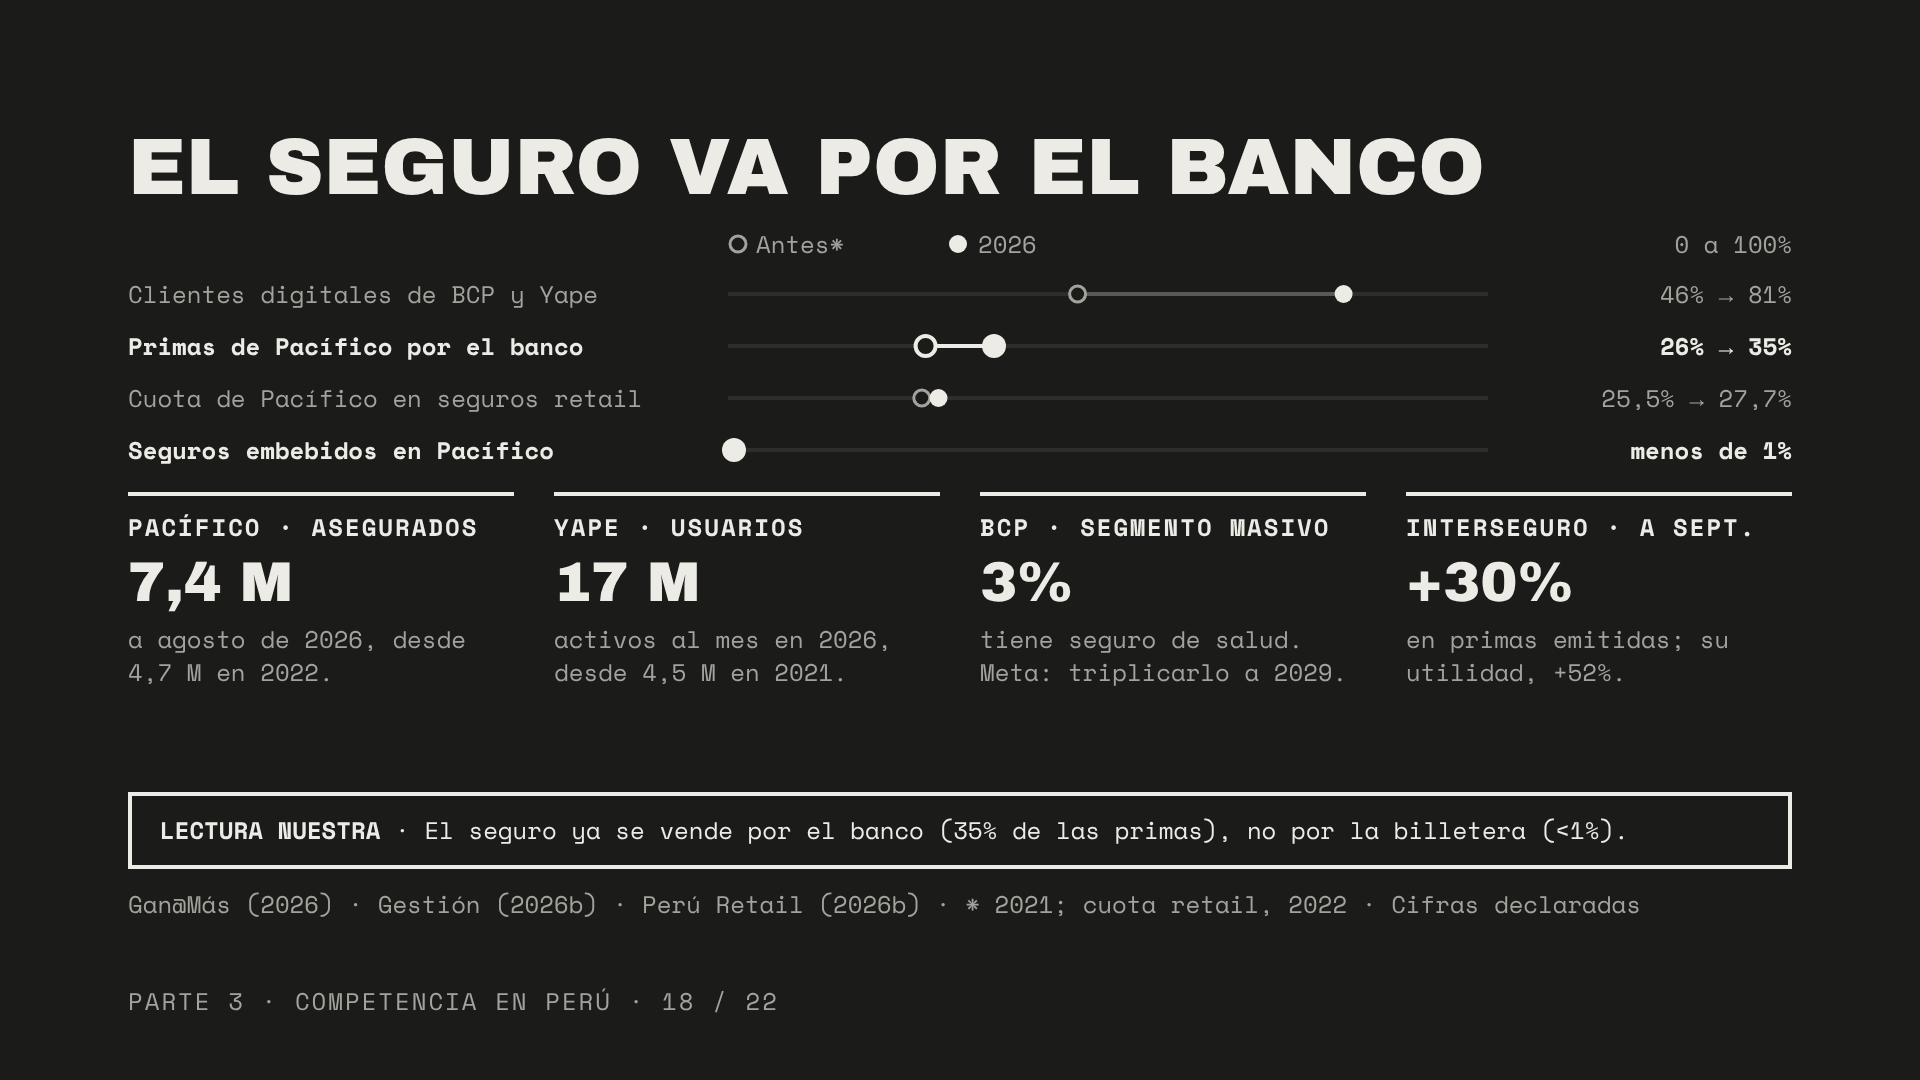
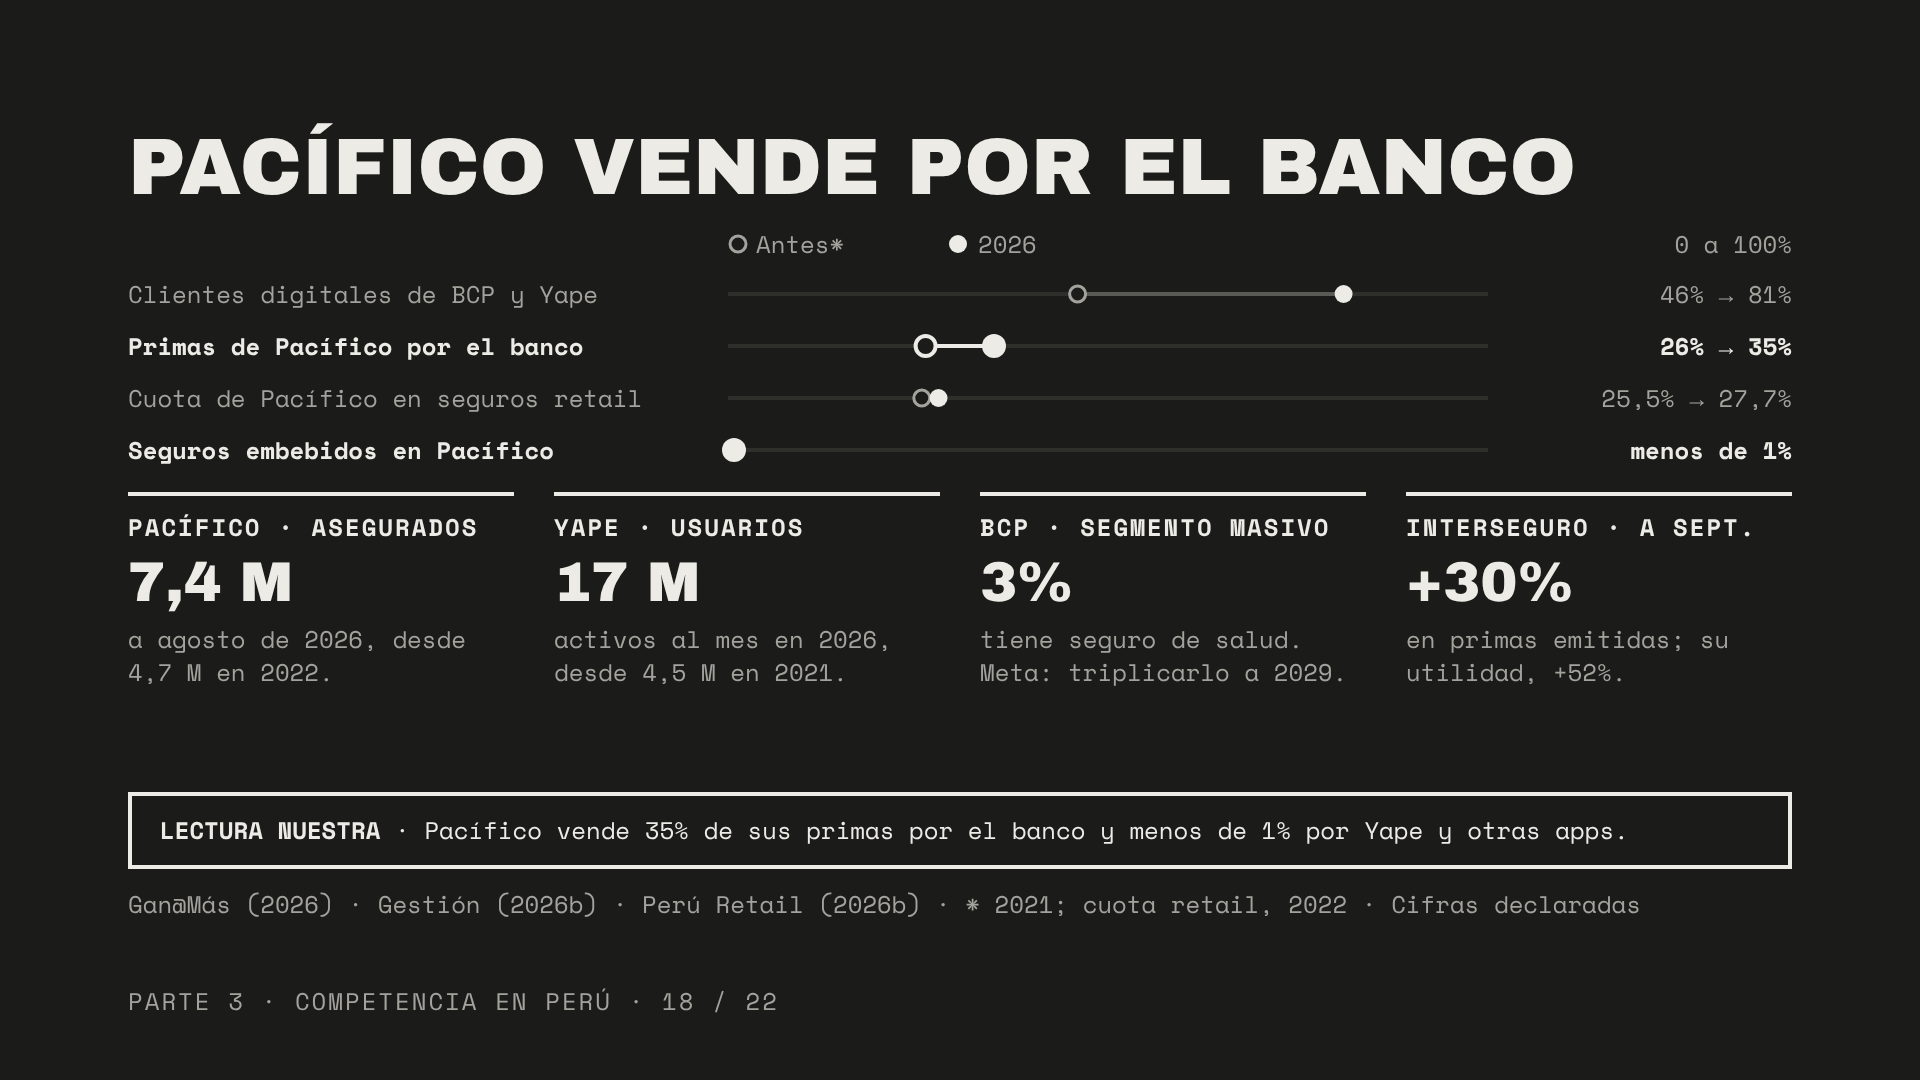
Simplifica la lámina de tácticas, ordena los ocho casos por momento y aclara el título de Pacífico
Claude-Session: https://claude.ai/code/session_0172Gzwbb2YLHGW14wEzAdeb

diff --git a/reports/presentacion-sudamerica/monocromo/project/slides/s-tacticas.html b/reports/presentacion-sudamerica/monocromo/project/slides/s-tacticas.html
@@ -1,16 +1,25 @@
 <section id="s-tacticas" class="inv" data-transition="fade">
 <h2 class="t">Cada momento, una táctica</h2>
-<p class="sub">82 intervenciones del benchmark, según el momento del recorrido del cliente.</p>
-<div style="display:grid;grid-template-columns:1fr 1fr 1fr 1fr 1fr;gap:36px">
-<div class="col"><p class="k">Contratar</p><p class="mid">33</p><p class="txt">Ofrecer el seguro dentro de una compra que ya ocurre</p><p class="dim">Mercado Pago (BR)</p><p class="dim">Mercado Libre (BR)</p><p class="dim">IRCTC (India)</p><p class="dim">TPaga (CO)</p></div>
-<div class="col"><p class="k">Pagar y renovar</p><p class="mid">10</p><p class="txt">Débito recurrente tras una sola autorización</p><p class="dim">Pix Automático (BR)</p><p class="dim">UPI AutoPay (India)</p><p class="dim">Bre-B (CO)</p><p class="dim">TAPP (PE, 2027)</p></div>
-<div class="col"><p class="k">Usar</p><p class="mid">18</p><p class="txt">Dar motivos tangibles para volver</p><p class="dim">Aditya Birla (India)</p><p class="dim">Segurísimo (CO)</p><p class="dim">SURA (CL)</p><p class="dim">Alan (Francia)</p></div>
-<div class="col"><p class="k">Reclamar</p><p class="mid">13</p><p class="txt">Avisar y ajustar a distancia, sin papeles ni visitas</p><p class="dim">Porto (BR)</p><p class="dim">Quálitas (MX)</p><p class="dim">Tokio Marine (BR)</p><p class="dim">Digit (India)</p></div>
-<div class="col"><p class="k">Intermediario</p><p class="mid">7</p><p class="txt">Devolverle tiempo al corredor para vender</p><p class="dim">Segura (BR)</p><p class="dim">Mapfre (PE)</p><p class="dim">SURA (MX)</p><p class="dim">Figuro (CO)</p></div>
+<div style="display:grid;grid-template-columns:260px 520px 1fr;column-gap:40px;border-top:4px solid #0F0F0E">
+<div style="padding:10px 0;border-bottom:2px solid #BDBCB6"><p class="k">Contratar</p><p class="dim">33 casos</p></div>
+<div style="padding:10px 0;border-bottom:2px solid #BDBCB6"><p class="txt"><b>Vender el seguro dentro de una compra o un pago que ya ocurre.</b></p></div>
+<div style="padding:10px 0;border-bottom:2px solid #BDBCB6"><p class="dim">Mercado Libre: en el carrito; IRCTC (India): con el pasaje de tren; TPaga (Colombia): en la bodega.</p></div>
+<div style="padding:10px 0;border-bottom:2px solid #BDBCB6"><p class="k">Pagar y renovar</p><p class="dim">10 casos</p></div>
+<div style="padding:10px 0;border-bottom:2px solid #BDBCB6"><p class="txt"><b>Autorizar el cobro una sola vez; después, la prima se paga sola.</b></p></div>
+<div style="padding:10px 0;border-bottom:2px solid #BDBCB6"><p class="dim">Pix Automático (Brasil), UPI AutoPay (India), Bre-B (Colombia); en Perú, TAPP desde 2027.</p></div>
+<div style="padding:10px 0;border-bottom:2px solid #BDBCB6"><p class="k">Usar</p><p class="dim">18 casos</p></div>
+<div style="padding:10px 0;border-bottom:2px solid #BDBCB6"><p class="txt"><b>Dar beneficios para volver aunque no haya un siniestro.</b></p></div>
+<div style="padding:10px 0;border-bottom:2px solid #BDBCB6"><p class="dim">Aditya Birla (India): premia el ejercicio; SURA (Chile): el buen manejo; Alan (Francia): reembolsa en un día.</p></div>
+<div style="padding:10px 0;border-bottom:2px solid #BDBCB6"><p class="k">Reclamar</p><p class="dim">13 casos</p></div>
+<div style="padding:10px 0;border-bottom:2px solid #BDBCB6"><p class="txt"><b>Avisar y resolver el siniestro por celular, sin trámites en persona.</b></p></div>
+<div style="padding:10px 0;border-bottom:2px solid #BDBCB6"><p class="dim">Porto (Brasil): aviso por WhatsApp con IA; Quálitas (México): fotos; Digit (India): aprueba en 21 min.</p></div>
+<div style="padding:10px 0;border-bottom:2px solid #BDBCB6"><p class="k">Intermediario</p><p class="dim">7 casos</p></div>
+<div style="padding:10px 0;border-bottom:2px solid #BDBCB6"><p class="txt"><b>Quitarle trámites al corredor para que tenga más tiempo de vender.</b></p></div>
+<div style="padding:10px 0;border-bottom:2px solid #BDBCB6"><p class="dim">Segura (Brasil): soporte por WhatsApp; Mapfre (Perú): guía con IA; Figuro (Colombia): multicotizador.</p></div>
 </div>
 <div class="spacer"></div>
-<div class="strip"><p class="txt"><b>LO QUE CASI NADIE HACE</b> · Trabajar la confianza y las creencias. Solo 2 de 82 intervenciones lo intentan, y ninguna enfrenta la idea de que un seguro «llama la desgracia».</p></div>
-<p class="src">RIMAC (2026a), matriz de benchmark del equipo, corte del 11 de noviembre de 2026</p>
+<div class="strip"><p class="txt"><b>LO QUE CASI NADIE HACE</b> · Generar confianza. Solo 2 de 82 casos lo intentan, y ninguno enfrenta la creencia de que un seguro «llama la desgracia».</p></div>
+<p class="src">RIMAC (2026a), matriz de benchmark del equipo: 82 casos, corte del 11 de noviembre de 2026</p>
 <p class="foot">Síntesis del benchmark · 15 / 22</p>
-<aside>Qué decir: esta lámina resume las 82 intervenciones de la matriz de benchmark del equipo según el momento del recorrido del cliente. Se lee de izquierda a derecha, como el recorrido. Contratar (33): la táctica dominante es ofrecer el seguro dentro de una compra que ya ocurre, como la recarga de Mercado Pago, el carrito de Mercado Libre, el pasaje de tren en IRCTC (India) o la venta del tendero con TPaga (Colombia). Pagar y renovar (10): débito recurrente tras una sola autorización, con Pix Automático en Brasil, UPI AutoPay en India, Bre-B en Colombia y, desde 2027, TAPP en Perú. Usar (18): dar motivos tangibles para volver, como la prima devuelta de Aditya Birla, los pagos pequeños de Segurísimo, los puntos por manejar de SURA en Chile o el reembolso en un día de Alan. Reclamar (13): avisar y ajustar a distancia, sin papeles ni visitas: WhatsApp con IA en Porto, fotos en Quálitas, documentos por número de identidad en Tokio Marine y aprobación en 21 minutos en Digit. Intermediario (7): devolverle tiempo al corredor para vender: soporte por WhatsApp de Segura, IA que entrena al asesor en Mapfre, correos con IA en SURA y el multicotizador Figuro. La intervención número 82 es de operación interna y no entra en los cinco momentos. Lo que casi nadie hace: trabajar la confianza y las creencias; solo 2 de 82 intervenciones lo intentan, ambas en la contratación, y ninguna enfrenta la idea de que comprar un seguro «llama la desgracia», que en Colombia comparte parte de la población (Orozco y Morales, 2022). Es la capa que más falta probar en Perú. Fuente: RIMAC (2026a), matriz de benchmark del equipo, corte del 11 de noviembre de 2026; la táctica de cada momento es lectura propia. Adaptado de la presentación «Digital en seguros LatAm», v0.2. Puente: ocho casos de esta matriz, en una cifra.</aside>
+<aside>Qué decir: esta lámina resume los 82 casos de la matriz de benchmark del equipo según el momento del cliente. Cada fila dice qué hacen las empresas en ese momento, en una frase, y quién lo hace. Contratar (33 casos): vender el seguro dentro de una compra o un pago que la persona ya está haciendo; por ejemplo, Mercado Libre lo ofrece en el carrito, Mercado Pago al recargar, IRCTC en India al comprar el pasaje de tren y TPaga en Colombia a través del tendero. Pagar y renovar (10): la persona autoriza el cobro una sola vez y luego la prima se descuenta sola cada mes, sin tarjeta, con sistemas de pago como Pix Automático en Brasil, UPI AutoPay en India, Bre-B en Colombia y, desde 2027, TAPP en Perú. Usar (18): dar beneficios concretos para que la persona vuelva aunque no tenga un siniestro; Aditya Birla en India devuelve parte de la prima a quien hace actividad física, SURA en Chile da puntos por manejar bien, Segurísimo en Colombia paga montos pequeños y Alan en Francia reembolsa gastos médicos en un día. Reclamar (13): que la persona avise el siniestro y lo resuelva desde el celular, sin llevar papeles ni esperar a un inspector; Porto en Brasil recibe el aviso por WhatsApp con un asistente de IA, Quálitas en México evalúa con fotos, Tokio Marine en Brasil pide los documentos con el número de identidad y Digit en India aprueba en 21 minutos. Intermediario (7): quitarle trámites al corredor para que dedique más tiempo a vender; Segura en Brasil lo apoya por WhatsApp, Mapfre en Perú lo guía con IA, SURA en México le redacta correos con IA y Figuro en Colombia le cotiza varias aseguradoras a la vez. El caso número 82 es de operación interna y no entra en los cinco momentos. Lo que casi nadie hace: generar confianza; solo 2 de 82 casos lo intentan, ambos al contratar, y ninguno enfrenta la creencia de que comprar un seguro «llama la desgracia», que en Colombia comparte parte de la población (Orozco y Morales, 2022). Es lo que más falta probar en Perú. Fuente: RIMAC (2026a), matriz de benchmark del equipo, corte del 11 de noviembre de 2026; la frase de cada momento es lectura propia. Adaptado de la presentación «Digital en seguros LatAm», v0.2. Puente: ocho casos de esta matriz, cada uno en una cifra.</aside>
 </section>

diff --git a/reports/presentacion-sudamerica/monocromo/project/slides/s-casos.html b/reports/presentacion-sudamerica/monocromo/project/slides/s-casos.html
@@ -1,17 +1,17 @@
 <section id="s-casos" data-transition="fade">
 <h2 class="t">Ocho casos, ocho cifras</h2>
 <div style="display:grid;grid-template-columns:1fr 1fr 1fr 1fr;gap:28px 40px">
-<div class="card"><p class="k">Reclamar · Brasil</p><p class="mid">70%</p><p class="txt">de los avisos de robo de Porto se abren por WhatsApp con IA.</p></div>
-<div class="card"><p class="k">Reclamar · México</p><p class="mid">28%</p><p class="txt">de los siniestros de Quálitas se atienden con fotos, sin ajustador.</p></div>
 <div class="card"><p class="k">Contratar · Chile</p><p class="mid">2–3 min</p><p class="txt">para comprar el SOAP por WhatsApp en la corredora Lider Bci; la mitad de quienes empiezan, compra.</p></div>
 <div class="card"><p class="k">Contratar · Colombia</p><p class="mid">1,8 M</p><p class="txt">de pólizas de Seguros Mundial, SOAT y otras, vendidas con aliados como Nequi y Rappi.</p></div>
 <div class="card"><p class="k">Pagar · Brasil</p><p class="mid">10 cuotas</p><p class="txt">cobra Justos con una sola autorización por Pix, sin tarjeta.</p></div>
 <div class="card"><p class="k">Pagar · Región</p><p class="mid">+2–8%</p><p class="txt">de recaudación declara Toku, un proveedor, al reintentar cobros fallidos.</p></div>
 <div class="card"><p class="k">Usar · India</p><p class="mid">+12%</p><p class="txt">de persistencia en Aditya Birla entre quienes ganan el premio por actividad; solo lo gana 12,7%.</p></div>
-<div class="card"><p class="k">Corredor · Brasil</p><p class="mid">1.200</p><p class="txt">corredores atiende Bradesco con IA y especialistas por WhatsApp; empezó con 135.</p></div>
+<div class="card"><p class="k">Reclamar · Brasil</p><p class="mid">70%</p><p class="txt">de los avisos de robo de Porto se abren por WhatsApp con IA.</p></div>
+<div class="card"><p class="k">Reclamar · México</p><p class="mid">28%</p><p class="txt">de los siniestros de Quálitas se atienden con fotos, sin ajustador.</p></div>
+<div class="card"><p class="k">Intermediario · Brasil</p><p class="mid">1.200</p><p class="txt">corredores atiende Bradesco con IA y especialistas por WhatsApp; empezó con 135.</p></div>
 </div>
 <div class="spacer"></div>
-<p class="src">Revista Apólice (2026) · Quálitas (2025) · Chócale (2025) · Semana (2026) · Justos (2026) · 100% Seguro (2026) · Multibagg (2026) · CQCS (2026a) · Cifras declaradas, sin evaluación independiente</p>
+<p class="src">Chócale (2025) · Semana (2026) · Justos (2026) · 100% Seguro (2026) · Multibagg (2026) · Revista Apólice (2026) · Quálitas (2025) · CQCS (2026a) · Cifras declaradas, sin evaluación independiente</p>
 <p class="foot">Síntesis del benchmark · 16 / 22</p>
-<aside>Qué decir: ocho intervenciones de la matriz, cada una resumida en una cifra; conviene elegir dos según quién esté en la sala. Reclamar en Brasil: Porto abre por WhatsApp, con un agente de IA, 70% de sus avisos de robo y hurto de vehículos (Revista Apólice, 2026). Reclamar en México: Quálitas atendió 28% de sus siniestros de 2024 con fotos desde el celular, sin ajustador en el lugar (Quálitas, 2025). Contratar en Chile: la corredora Lider Bci vende el SOAP por WhatsApp con IA en 2 a 3 minutos, y uno de cada dos clientes que empieza el proceso lo contrata (Chócale, 2025); no es una aseguradora. Contratar en Colombia: Seguros Mundial emitió más de 1,8 millones de pólizas, de SOAT y otros seguros, con aliados tecnológicos como Nequi, Rappi y Mercado Libre (Semana, 2026). Pagar en Brasil: Justos cobra el seguro de auto en hasta 10 cuotas con una sola autorización por Pix, sin tarjeta, «para evitar la cancelación por olvido» (Justos, 2026). Pagar en la región: Toku, un proveedor de cobranza, declara entre 2% y 8% más de recaudación al reintentar los cobros fallidos (100% Seguro, 2026). Usar en India: en Aditya Birla Health, quienes ganan el premio por actividad física tienen una persistencia más de 12% mayor, pero solo lo gana 12,7% de los elegibles, y probablemente ya eran más constantes antes del programa (Multibagg, 2026). Corredor en Brasil: Bradesco Seguros pasó de 135 a más de 1.200 corredores atendidos por IA y especialistas en WhatsApp (CQCS, 2026a). Todas las cifras las declaran las empresas o sus proveedores; ninguna tiene evaluación independiente. Adaptado de la presentación «Digital en seguros LatAm», v0.2, con tres correcciones: Quálitas atiende, no cierra, los siniestros con fotos; Seguros Mundial vendió pólizas de SOAT y de otros seguros; y Lider Bci es una corredora. Puente: ¿y qué está pasando en Perú?</aside>
+<aside>Qué decir: ocho casos de la matriz, cada uno resumido en una cifra y ordenados por momento del cliente, igual que la lámina anterior; conviene elegir dos según quién esté en la sala. Contratar en Chile: la corredora Lider Bci vende el SOAP por WhatsApp con IA en 2 a 3 minutos, y uno de cada dos clientes que empieza el proceso lo contrata (Chócale, 2025); no es una aseguradora. Contratar en Colombia: Seguros Mundial emitió más de 1,8 millones de pólizas, de SOAT y otros seguros, con aliados tecnológicos como Nequi, Rappi y Mercado Libre (Semana, 2026). Pagar en Brasil: Justos cobra el seguro de auto en hasta 10 cuotas con una sola autorización por Pix, sin tarjeta, «para evitar la cancelación por olvido» (Justos, 2026). Pagar en la región: Toku, un proveedor de cobranza, declara entre 2% y 8% más de recaudación al reintentar los cobros fallidos (100% Seguro, 2026). Usar en India: en Aditya Birla Health, quienes ganan el premio por actividad física tienen una persistencia más de 12% mayor, pero solo lo gana 12,7% de los elegibles, y probablemente ya eran más constantes antes del programa (Multibagg, 2026). Reclamar en Brasil: Porto abre por WhatsApp, con un agente de IA, 70% de sus avisos de robo y hurto de vehículos (Revista Apólice, 2026). Reclamar en México: Quálitas atendió 28% de sus siniestros de 2024 con fotos desde el celular, sin ajustador en el lugar (Quálitas, 2025). Intermediario en Brasil: Bradesco Seguros pasó de 135 a más de 1.200 corredores atendidos por IA y especialistas en WhatsApp (CQCS, 2026a). Todas las cifras las declaran las empresas o sus proveedores; ninguna tiene evaluación independiente. Adaptado de la presentación «Digital en seguros LatAm», v0.2, con tres correcciones: Quálitas atiende, no cierra, los siniestros con fotos; Seguros Mundial vendió pólizas de SOAT y de otros seguros; y Lider Bci es una corredora. Puente: ¿y qué está pasando en Perú?</aside>
 </section>

diff --git a/reports/presentacion-sudamerica/monocromo/project/slides/p3-grupos.html b/reports/presentacion-sudamerica/monocromo/project/slides/p3-grupos.html
@@ -1,5 +1,5 @@
 <section id="p3-grupos" class="alt" data-transition="fade">
-<h2 class="t">El seguro va por el banco</h2>
+<h2 class="t">Pacífico vende por el banco</h2>
 <div class="host" style="width:1664px;height:244px">
 <svg aria-label="Gráfico de pesas: cuatro indicadores de Credicorp y Pacífico, antes y en 2026, en una escala de 0 a 100%" width="1664" height="244" viewBox="0 0 1664 244">
 <circle cx="610" cy="16" r="8" fill="#1B1B19" stroke="#A3A29C" stroke-width="3"/>
@@ -32,7 +32,7 @@
 <div class="card"><p class="k">Interseguro · a sept.</p><p class="mid">+30%</p><p class="dim">en primas emitidas; su utilidad, +52%.</p></div>
 </div>
 <div class="spacer"></div>
-<div class="strip"><p class="txt"><b>LECTURA NUESTRA</b> · El seguro ya se vende por el banco (35% de las primas), no por la billetera (&lt;1%).</p></div>
+<div class="strip"><p class="txt"><b>LECTURA NUESTRA</b> · Pacífico vende 35% de sus primas por el banco y menos de 1% por Yape y otras apps.</p></div>
 <p class="src">Gan@Más (2026) · Gestión (2026b) · Perú Retail (2026b) · * 2021; cuota retail, 2022 · Cifras declaradas</p>
 <p class="foot">Parte 3 · Competencia en Perú · 18 / 22</p>
 <aside>Qué decir: los dos grandes grupos financieros ya convierten su base de clientes en primas, pero sobre todo por el banco. El gráfico compara cuatro indicadores de Credicorp antes y en 2026, en una escala de 0 a 100%. Uno: los clientes digitales de BCP y Yape pasaron de 46% en 2021 a 81% en septiembre de 2026; Credicorp define cliente digital como quien hace 70% o más de sus transacciones por canales digitales en los últimos seis meses, y dice que eso redujo 34% el costo de servir al segmento masivo. Dos: la bancaseguros ya aporta 35% de las primas totales de Pacífico, frente a 26% en 2021. Tres: la participación de Pacífico en seguros retail subió de 25,5% a 27,7% entre 2022 y agosto de 2026. Cuatro, el contraste: los seguros embebidos en apps de socios, como Yape, aún no llegan a 1% del portafolio de Pacífico (Gestión, 2026b). Abajo, cuatro cifras. Pacífico pasó de 4,7 a 7,4 millones de asegurados. Yape tiene 17 millones de usuarios activos al mes, desde 4,5 millones en 2021, y hoy monetiza sobre todo con crédito: su cartera casi se cuadruplicó en un año, a S/ 2.300 millones. En el segmento masivo del BCP, solo 3% tiene seguro de salud, y Credicorp apunta a triplicarlo a 2029; Pacífico dice que puede lanzar un producto en 1,5 meses y ofrece atención primaria para la clase media, con unas 60.000 consultas al año. Interseguro, del grupo Intercorp, creció 30% en primas emitidas y 52% en utilidad a septiembre de 2026; IFS no atribuye ese crecimiento al canal digital, pero dice que sigue invirtiendo en soluciones digitales, ciberseguridad e IA generativa, y Plin creció 43% en transacciones. Otras cifras de Credicorp que sirven como contexto: la brecha de protección es amplia, porque solo 2 de cada 7 familias tienen seguro de vida, 1 de cada 4 vehículos está asegurado y 5% de la clase media tiene seguro privado de salud (datos de APESEG citados por Credicorp); su portafolio de innovación aporta cerca de 10% de los ingresos ajustados por riesgo y la meta ilustrativa es 30% en 2031; con agentes de IA busca automatizar entre 40% y 60% de las consultas de clientes; y la banca por WhatsApp de Mibanco sumó 21.000 clientes y 14.700 desembolsos en ocho meses. Todas son cifras y metas declaradas por las empresas, sin evaluación independiente. Lectura nuestra: en Perú, el ecosistema ya vende seguros, pero por el banco y su fuerza de venta, no dentro de la billetera; Yape tiene la escala, falta convertirla en pólizas. Fuentes: Gan@Más (2026), sobre la Actualización Estratégica 2026 de Credicorp; Gestión (2026b); Perú Retail (2026b), sobre los resultados de IFS a septiembre de 2026. Puente: ¿qué dicen quienes usan estas apps?</aside>
